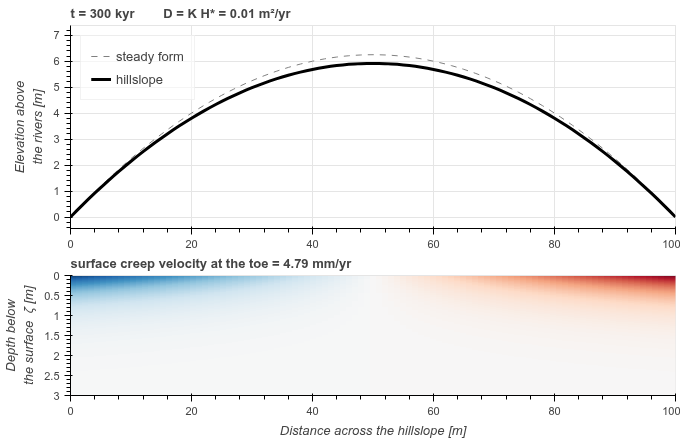
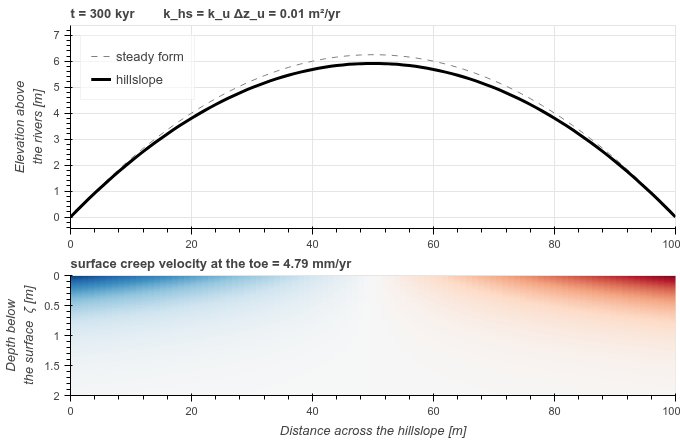
Use plain k_hs / k_u / Delta z_u in the demo prose, matching the sliders
Panel's Markdown pane does not render ~sub~ subscripts -- the intro read
literally as 'k~hs~'.  Caught by rendering the compiled app, not by reading the
source.  Plain underscore form now, which is what the slider labels use anyway,
so the page is internally consistent.

Previews refreshed: figure and bokeh export at t = 300 kyr, browser at
t = 968 kyr with the toe velocity still 5.00 mm/yr and no console errors.

diff --git a/interactive_demo/hillcreep_panel.py b/interactive_demo/hillcreep_panel.py
@@ -235,14 +235,13 @@ _redraw()
 pn.Column(
     pn.pane.Markdown(
         "### Hillslope diffusivity, taken apart\n"
-        "**k**~hs~ is the number everyone quotes and nobody measures. Here it "
+        "**k_hs** is the number everyone quotes and nobody measures. Here it "
         "is not a setting: you choose how fast soil creeps at the surface "
-        "(**k**~u~) and how quickly that motion dies away downward "
-        "(**\u0394z**~u~), and **k**~hs~ **= k**~u~ **\u0394z**~u~ is reported "
-        "back.\n\n"
+        "(**k_u**) and how quickly that motion dies away downward "
+        "(**\u0394z_u**), and **k_hs = k_u \u0394z_u** is reported back.\n\n"
         "Press **\u25b6** and drag the sliders while it runs. Watch the lower "
-        "panel: **k**~u~ and **\u0394z**~u~ can be traded against each other to "
-        "give the same **k**~hs~ and the same hillslope \u2014 but not the same "
+        "panel: **k_u** and **\u0394z_u** can be traded against each other to "
+        "give the same **k_hs** and the same hillslope \u2014 but not the same "
         "motion underneath it."),
     pn.Row(run, reset_button(do_reset, name="Flatten")),
     k_u, dz_u, E, notice, fig_z, fig_u,
